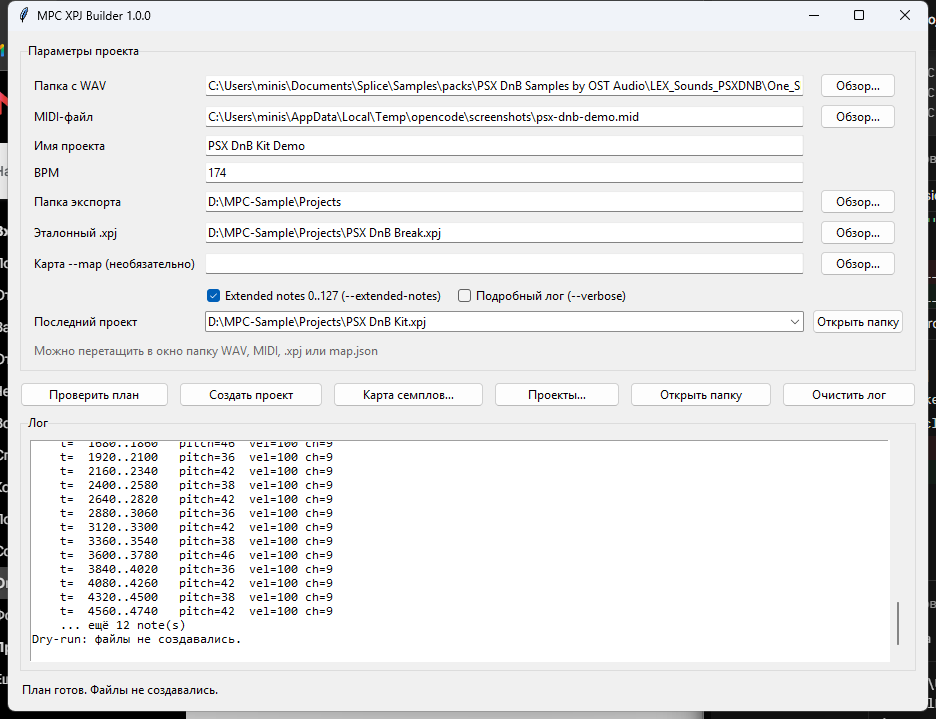
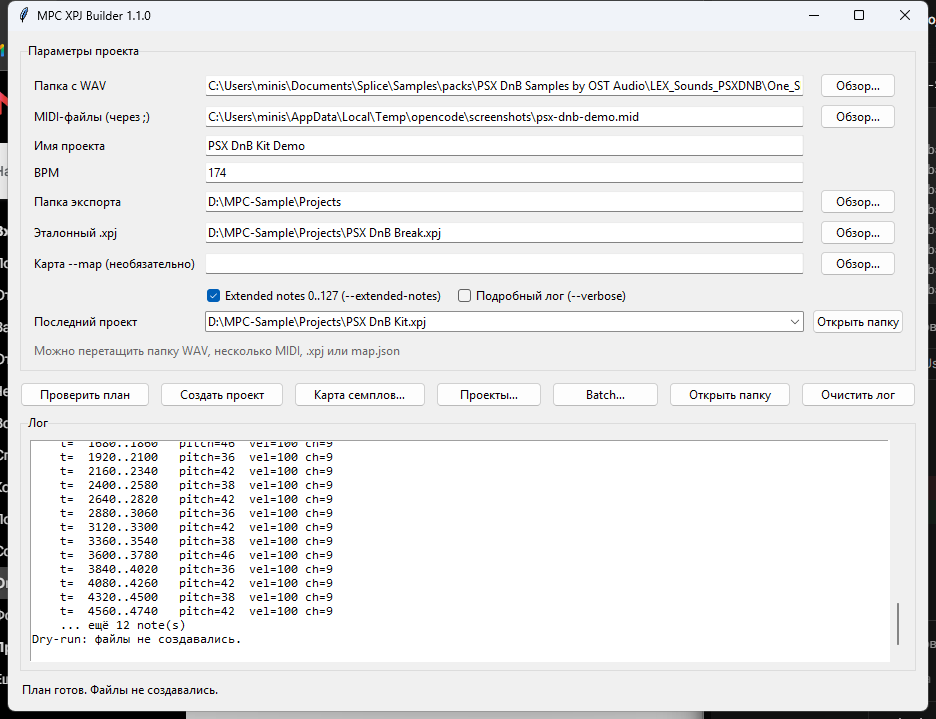
Refresh screenshots and bump to v1.1.0

diff --git a/gui_batch.py b/gui_batch.py
@@ -198,8 +198,8 @@ class BatchWindow(tk.Toplevel):
     ) -> None:
         super().__init__(master)
         self.title("MPC XPJ Builder — batch")
-        self.geometry("1060x760")
-        self.minsize(860, 620)
+        self.geometry("1120x760")
+        self.minsize(900, 620)
 
         self.manifest_path: Path | None = None
         self.jobs: list[dict[str, Any]] = []
@@ -266,8 +266,8 @@ class BatchWindow(tk.Toplevel):
         }
         widths = {
             "name": 150,
-            "samples": 250,
-            "midi": 220,
+            "samples": 320,
+            "midi": 280,
             "map": 170,
             "bpm": 55,
             "extended": 50,
@@ -279,10 +279,15 @@ class BatchWindow(tk.Toplevel):
         scroll = ttk.Scrollbar(jobs_frame, orient="vertical", command=self.tree.yview)
         scroll.grid(row=0, column=1, sticky="ns")
         self.tree.configure(yscrollcommand=scroll.set)
+        xscroll = ttk.Scrollbar(
+            jobs_frame, orient="horizontal", command=self.tree.xview
+        )
+        xscroll.grid(row=1, column=0, sticky="ew")
+        self.tree.configure(xscrollcommand=xscroll.set)
         self.tree.bind("<Double-1>", lambda _event: self._edit_job())
 
         job_buttons = ttk.Frame(jobs_frame)
-        job_buttons.grid(row=1, column=0, columnspan=2, sticky="w", pady=(6, 0))
+        job_buttons.grid(row=2, column=0, columnspan=2, sticky="w", pady=(6, 0))
         self.add_button = ttk.Button(
             job_buttons, text="Добавить…", command=self._add_job
         )

diff --git a/version.py b/version.py
@@ -1,3 +1,3 @@
 """Версия mpc_xpj_builder."""
 
-__version__ = "1.0.0"
+__version__ = "1.1.0"

diff --git a/docs/USER_GUIDE.md b/docs/USER_GUIDE.md
@@ -1,6 +1,6 @@
 # Руководство пользователя
 
-**mpc-xpj-builder 1.0.0** — сборка проектов `.xpj` для **Akai MPC Sample** из
+**mpc-xpj-builder 1.1.0** — сборка проектов `.xpj` для **Akai MPC Sample** из
 папки WAV и одного Standard MIDI File.
 
 Инструмент не пишет формат `.xpj` с нуля: он клонирует эталонный проект,
@@ -13,7 +13,7 @@
 
 ### Вариант A. Установщик
 
-1. Скачайте `mpc-xpj-builder-v1.0.0-setup.exe` со страницы
+1. Скачайте `mpc-xpj-builder-v1.1.0-setup.exe` со страницы
    [Releases](https://github.com/cursednik/mpc-xpj-builder/releases).
 2. Запустите установщик.
 3. Windows может показать предупреждение SmartScreen, потому что установщик не
@@ -24,7 +24,7 @@
 
 ### Вариант B. Портативная версия
 
-1. Скачайте `mpc-xpj-builder-v1.0.0-win64.zip`.
+1. Скачайте `mpc-xpj-builder-v1.1.0-win64.zip`.
 2. Распакуйте архив в любую папку.
 3. Запустите `mpc-xpj-builder-gui.exe`.
 
@@ -215,6 +215,8 @@ Batch нужен, чтобы собрать несколько проектов 
 ### Batch в GUI
 
 Кнопка **«Batch…»** открывает отдельное окно:
+
+![Batch-сборка](images/gui-batch.png)
 
 - общие поля: эталонный `.xpj`, папка экспорта, BPM по умолчанию;
 - таблица проектов: имя, WAV, MIDI, карта, BPM, extended notes;
